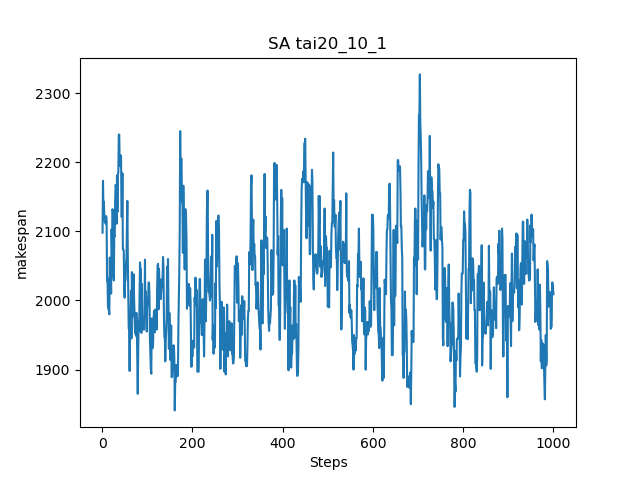
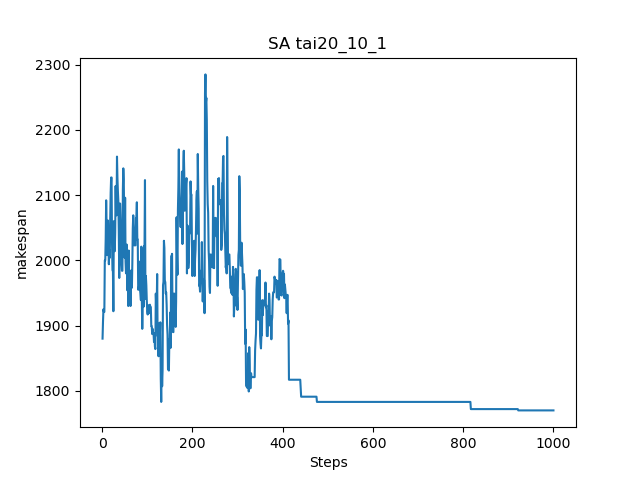
Modify SA.py and run the exoeriment
* Add iteration limitation in each steps
* Modify cooling function from subtract to multiply the cooling factor

diff --git a/HW01/SA.py b/HW01/SA.py
@@ -30,7 +30,7 @@ def swap( sol: list[int], a: int, b: int ) -> list[ int ]:
 
 # Cooling function
 def cool( temperature: int, coolingFactor: int ) -> int:
-    temperature -= coolingFactor
+    temperature *= coolingFactor
     return temperature
 
 # 
@@ -74,8 +74,8 @@ for each in filenames:
 
     ### Parameters for SA
     epochLength = 10     # <--- Modify if needed
-    temperature = 1000  # <--- Modify if needed
-    coolingFactor = 9.5   # <--- Modify if needed
+    temperature = 3000  # <--- Modify if needed
+    coolingFactor = 0.9   # <--- Modify if needed
     MaxSteps = 1000      # <--- Modify if needed
 
     f2.write( f'Initial temperature: {temperature}, cooling factor: {coolingFactor}, Epoch length: {epochLength}\n' )
@@ -104,7 +104,9 @@ for each in filenames:
 
             ## Neighborhood Function
             BIFlag = 1
-            while BIFlag == 1:
+            tmp = 0
+            while BIFlag == 1 and tmp < 20:
+                tmp += 1
                 i = random.randrange( 0, jobs, 1 )
                 j = random.randrange( 0, jobs, 1 )
                 swap( TestSol, i, j )
@@ -119,7 +121,7 @@ for each in filenames:
                     sol = TestSol
                     BIFlag = 0
                 else:
-                    #print(f'{math.exp( ( curr - time ) / temperature )}')
+                    #print(f'{math.exp( ( curr - time ) / temperature )}, {temperature}')
                     if math.exp( ( curr - time ) / temperature ) > random.uniform( 0.0, 1.0 ):
                         curr = time
                         sol = TestSol
@@ -133,7 +135,7 @@ for each in filenames:
             ## Plot parameters
             if _ == plotCase:
                 plotX.append( __ + 1 )
-                plotY.append( time )
+                plotY.append( curr )
         
         #print( f'\t\tIn {_} round: {curr}' )
         if curr < best:
